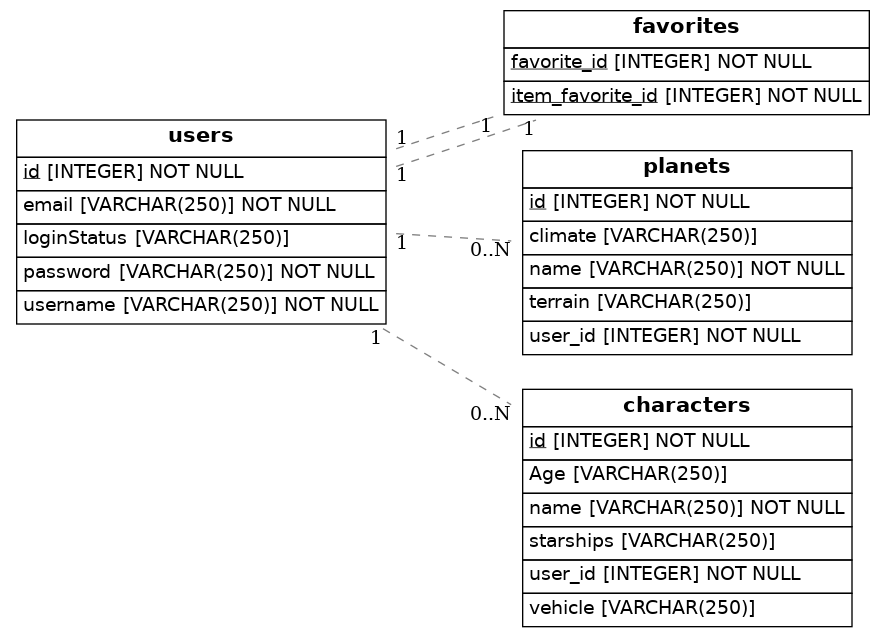
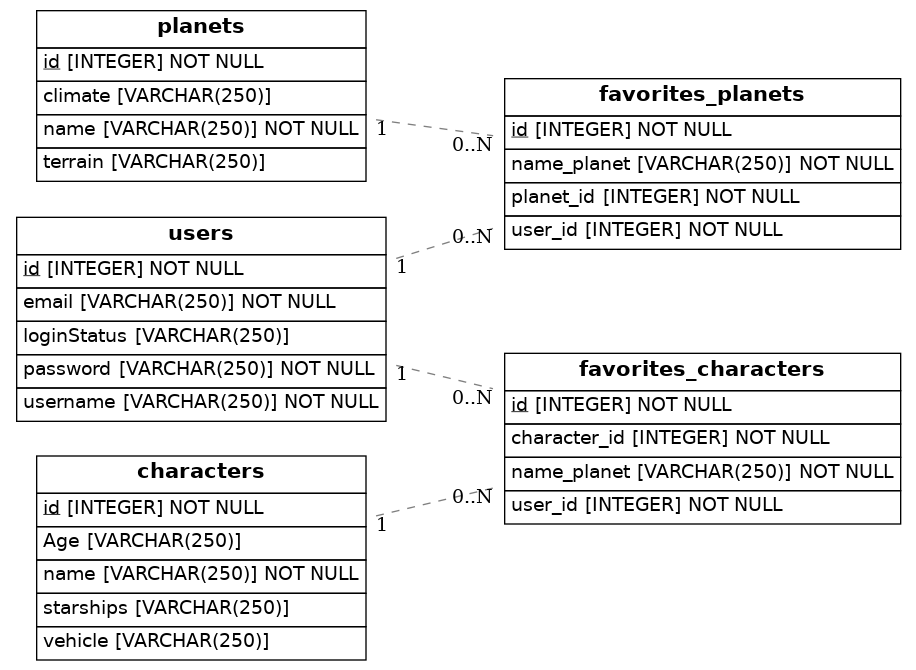
Correción

Changed region(s): [[0.4881, 0.0, 1.0, 0.9843], [0.0, 0.0, 0.4881, 1.0]]

diff --git a/src/models.py b/src/models.py
@@ -7,12 +7,6 @@ from eralchemy2 import render_er
 
 Base = declarative_base()
 
-favorites_table = Table(
-    'favorites',
-    Base.metadata,
-    Column('favorite_id', Integer, ForeignKey('users.id'), nullable=False, primary_key=True),
-    Column('item_favorite_id', Integer, ForeignKey('users.id'), nullable=False, primary_key=True)
-)
 
 class User(Base):
     __tablename__ = 'users'
@@ -22,15 +16,8 @@ class User(Base):
     loginStatus = Column(String(250), default=True) #Show messague de Start session.
     email = Column(String (250), nullable=False)
 
-    #Many to many relationship. A user can have on the table many favorites planets or characters and the favorites table can have many users. 
+
     
-    favorites = relationship(
-        'User',
-        secondary= favorites_table,
-        primaryjoin= (favorites_table.c.favorite_id == id),
-        secondaryjoin= (favorites_table.c.item_favorite_id == id),
-        backref= backref('items_favorites_id', lazy= 'dynamic')
-    )
 
 class Planet(Base):
     #One to many. One planet can have many users
@@ -39,8 +26,6 @@ class Planet(Base):
     name = Column(String(250), nullable=False)
     climate = Column(String(250), nullable=True)
     terrain = Column(String(250), nullable=True)
-    user_id = Column(Integer, ForeignKey('users.id'), nullable=False)
-    user = relationship('User', backref='planets')
 
 class Character(Base):
     #One to many. One Character can have many users
@@ -50,8 +35,32 @@ class Character(Base):
     Age = Column(String(250), nullable=True)
     vehicle = Column(String(250), nullable=True)
     starships = Column(String(250), nullable=True)
+
+class Favorite_planet(Base):
+    #One to many. One Character can have many users
+    __tablename__= 'favorites_planets'
+    id = Column(Integer, primary_key=True)
+    name_planet= Column(String(250), nullable=False)
     user_id = Column(Integer, ForeignKey('users.id'), nullable=False)
-    user = relationship('User', backref='characters')
+    user = relationship('User', backref='favorites_planets')
+    planet_id = Column(Integer, ForeignKey('planets.id'), nullable=False)
+    planet = relationship('Planet', backref='favorites_planets')
+
+
+class Favorite_character(Base):
+    #One to many. One Character can have many users
+    __tablename__= 'favorites_characters'
+    id = Column(Integer, primary_key=True)
+    name_planet= Column(String(250), nullable=False)
+    user_id = Column(Integer, ForeignKey('users.id'), nullable=False)
+    user = relationship('User', backref='favorites_characters')
+    character_id = Column(Integer, ForeignKey('characters.id'), nullable=False)
+    character = relationship('Character', backref='favorites_characters')
+
+
+
+
+
 
 
 
